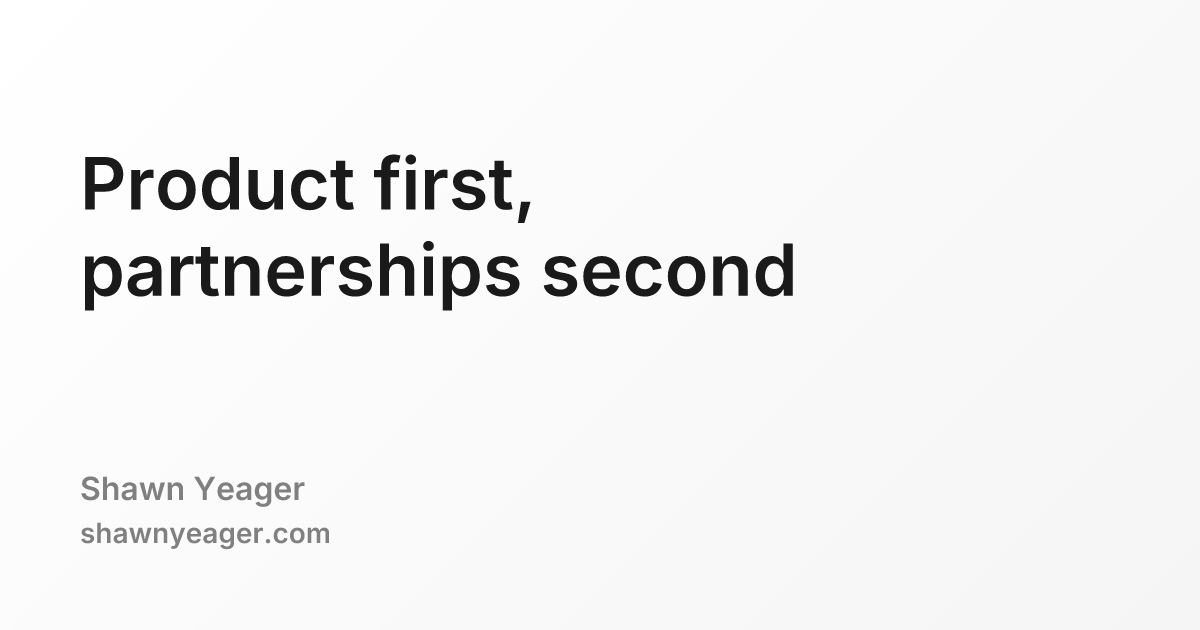
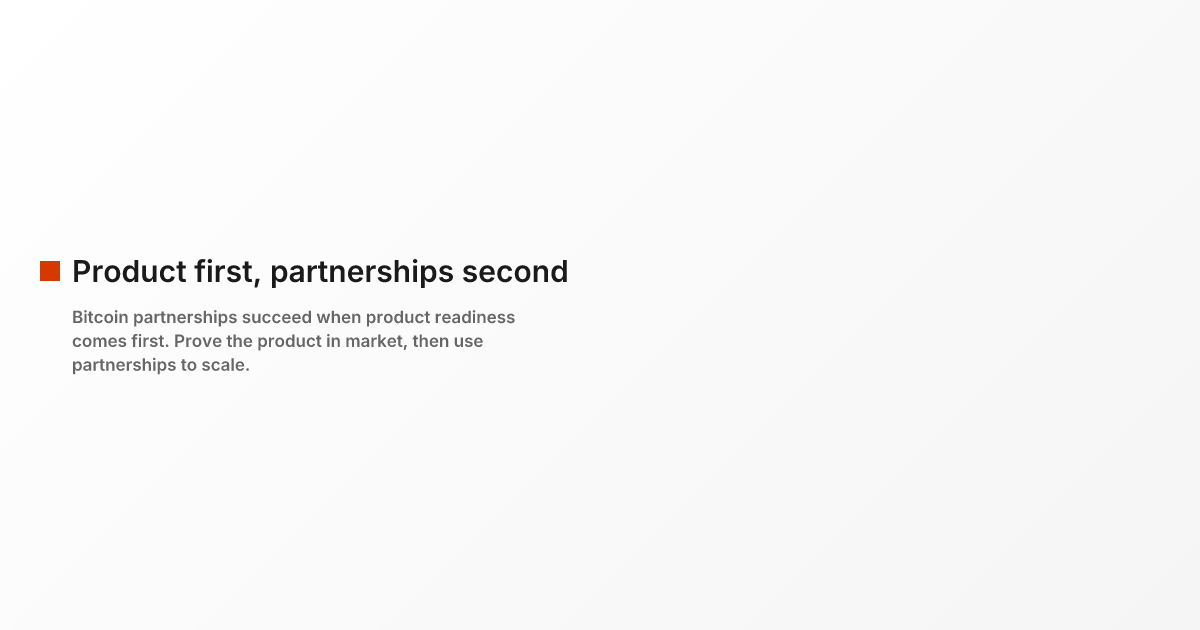
Implement dual-format OG images with optimized social sharing
**Changes:**
- Update generate-og-images.js to create both landscape and square versions
- Landscape (1200×630): For Facebook, LinkedIn, Slack, Discord
- Square (1200×1200): For X/Twitter (no awkward cropping)
- Generated 10 images total (5 essays × 2 formats each)

**Design specs:**
- Landscape: 20px orange square, 30px title, 17px description, 40px padding
- Square: 22px orange square, 35px title, 18px description, 60px padding
- Description color: #666666 (better readability than #808080)
- Author byline removed (URL provides attribution)
- Left-aligned layout with orange square beside title

**Image sizes:**
- Landscape: ~34-36 KB each
- Square: ~45-47 KB each
- Total: ~805 KB for all images

**Theme update:**
- Update to tangerine-theme v1.25.0 (adds Twitter Card square image support)

🤖 Generated with [Claude Code](https://claude.com/claude-code)

Changed region(s): [[0.0308, 0.3921, 0.6783, 0.6032], [0.0617, 0.2413, 0.4625, 0.3619], [0.0617, 0.754, 0.2775, 0.8746]]

diff --git a/scripts/generate-og-images.js b/scripts/generate-og-images.js
@@ -14,11 +14,29 @@ const FONT_PATH = "./assets/fonts/Inter-SemiBold.otf";
 // Design tokens from tangerine-theme
 const COLORS = {
   textPrimary: "#1a1a1a",
-  textSecondary: "#808080",
+  textSecondary: "#666666",
   accent: "#d63900",
   bgPrimary: "#ffffff",
   bgSecondary: "#f5f5f5",
 };
+
+async function generateImage(template, width, height, fontData) {
+  const svg = await satori(template, {
+    width,
+    height,
+    fonts: [
+      {
+        name: "Inter",
+        data: fontData,
+        weight: 600,
+        style: "normal",
+      },
+    ],
+  });
+
+  const resvg = new Resvg(svg);
+  return resvg.render().asPng();
+}
 
 async function main() {
   console.log("🎨 Generating Open Graph images for essays...\n");
@@ -36,7 +54,7 @@ async function main() {
     console.log(`✓ Loaded font: ${FONT_PATH}\n`);
   } catch (error) {
     console.error(`✗ Error loading font from ${FONT_PATH}`);
-    console.error(`  Please ensure Inter-SemiBold.ttf exists at this location.`);
+    console.error(`  Please ensure Inter-SemiBold.otf exists at this location.`);
     process.exit(1);
   }
 
@@ -55,82 +73,122 @@ async function main() {
       const content = await readFile(filePath, "utf-8");
       const { data } = matter(content);
       const title = data.title || "Untitled";
+      const description = data.description || "";
 
       console.log(`  Processing: ${title}`);
       console.log(`    File: ${file}`);
 
-      // Create HTML template using design tokens
-      const template = html(`
+      // Generate landscape version (1200×630)
+      const landscapeTemplate = html(`
         <div style="
           display: flex;
           width: 1200px;
           height: 630px;
           background: linear-gradient(135deg, ${COLORS.bgPrimary} 0%, ${COLORS.bgSecondary} 100%);
-          padding: 80px;
+          padding: 40px;
           font-family: 'Inter', sans-serif;
         ">
           <div style="
             display: flex;
             flex-direction: column;
-            justify-content: space-between;
+            justify-content: center;
             width: 100%;
           ">
-            <div style="display: flex; flex-direction: column; margin-top: 60px;">
+            <div style="
+              display: flex;
+              align-items: flex-start;
+              gap: 12px;
+              margin-bottom: 16px;
+            ">
+              <div style="
+                display: flex;
+                width: 20px;
+                height: 20px;
+                background: ${COLORS.accent};
+                margin-top: 8px;
+                flex-shrink: 0;
+              "></div>
               <h1 style="
-                font-size: 72px;
+                font-size: 30px;
                 font-weight: 600;
                 color: ${COLORS.textPrimary};
                 line-height: 1.2;
                 margin: 0;
-                max-width: 900px;
+                max-width: 500px;
               ">${title}</h1>
             </div>
-
-            <div style="
-              display: flex;
-              flex-direction: column;
-              gap: 8px;
-            ">
-              <p style="
-                font-size: 32px;
-                color: ${COLORS.textSecondary};
-                margin: 0;
-              ">Shawn Yeager</p>
-              <p style="
-                font-size: 28px;
-                color: ${COLORS.textSecondary};
-                margin: 0;
-              ">shawnyeager.com</p>
-            </div>
+            <p style="
+              font-size: 17px;
+              color: ${COLORS.textSecondary};
+              line-height: 1.4;
+              margin: 0;
+              max-width: 500px;
+              padding-left: 32px;
+            ">${description}</p>
           </div>
         </div>
       `);
 
-      // Generate SVG using Satori
-      const svg = await satori(template, {
-        width: 1200,
-        height: 630,
-        fonts: [
-          {
-            name: "Inter",
-            data: fontData,
-            weight: 600,
-            style: "normal",
-          },
-        ],
-      });
+      const landscapePng = await generateImage(landscapeTemplate, 1200, 630, fontData);
+      const landscapeOutput = `${slug}.png`;
+      await writeFile(join(OUTPUT_DIR, landscapeOutput), landscapePng);
+      console.log(`    Landscape: ${landscapeOutput} (${(landscapePng.length / 1024).toFixed(1)} KB)`);
 
-      // Convert SVG to PNG using resvg
-      const resvg = new Resvg(svg);
-      const pngBuffer = resvg.render().asPng();
+      // Generate square version (1200×1200)
+      const squareTemplate = html(`
+        <div style="
+          display: flex;
+          width: 1200px;
+          height: 1200px;
+          background: linear-gradient(135deg, ${COLORS.bgPrimary} 0%, ${COLORS.bgSecondary} 100%);
+          padding: 60px;
+          font-family: 'Inter', sans-serif;
+        ">
+          <div style="
+            display: flex;
+            flex-direction: column;
+            justify-content: center;
+            width: 100%;
+          ">
+            <div style="
+              display: flex;
+              align-items: flex-start;
+              gap: 16px;
+              margin-bottom: 24px;
+            ">
+              <div style="
+                display: flex;
+                width: 22px;
+                height: 22px;
+                background: ${COLORS.accent};
+                margin-top: 10px;
+                flex-shrink: 0;
+              "></div>
+              <h1 style="
+                font-size: 35px;
+                font-weight: 600;
+                color: ${COLORS.textPrimary};
+                line-height: 1.2;
+                margin: 0;
+                max-width: 400px;
+              ">${title}</h1>
+            </div>
+            <p style="
+              font-size: 18px;
+              color: ${COLORS.textSecondary};
+              line-height: 1.4;
+              margin: 0;
+              max-width: 400px;
+              padding-left: 38px;
+            ">${description}</p>
+          </div>
+        </div>
+      `);
 
-      // Save to output directory
-      const outputFile = `${slug}.png`;
-      const outputPath = join(OUTPUT_DIR, outputFile);
-      await writeFile(outputPath, pngBuffer);
-
-      const sizeKB = (pngBuffer.length / 1024).toFixed(1);
-      console.log(`    Output: ${outputFile} (${sizeKB} KB)`);
+      const squarePng = await generateImage(squareTemplate, 1200, 1200, fontData);
+      const squareOutput = `${slug}-square.png`;
+      await writeFile(join(OUTPUT_DIR, squareOutput), squarePng);
+      console.log(`    Square: ${squareOutput} (${(squarePng.length / 1024).toFixed(1)} KB)`);
       console.log(`    ✓ Generated successfully\n`);
     } catch (error) {
       console.error(`    ✗ Error processing ${file}:`);
@@ -138,7 +196,7 @@ async function main() {
     }
   }
 
-  console.log(`\n🎉 Done! Generated ${markdownFiles.length} Open Graph image(s).`);
+  console.log(`\n🎉 Done! Generated ${markdownFiles.length * 2} Open Graph image(s).`);
   console.log(`   Output directory: ${OUTPUT_DIR}`);
 }
 
